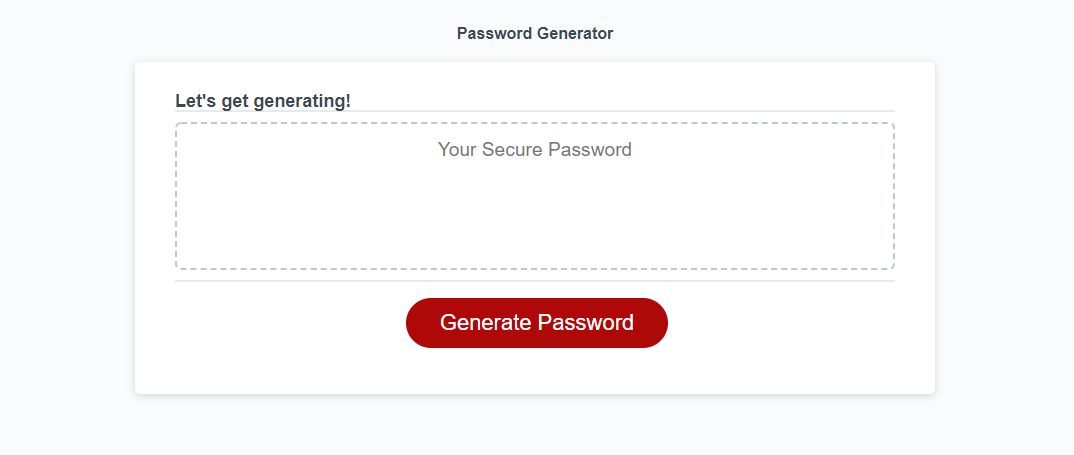
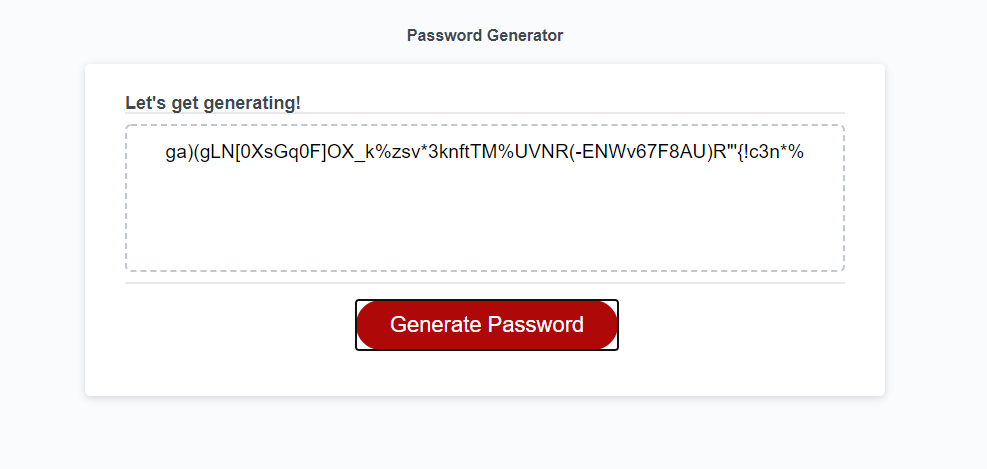
Update README.md and add screenshot of app

diff --git a/README.md b/README.md
@@ -1,11 +1,14 @@
 # Password Generator Application
 
+## Project Overview
 Password Generator 1.0 builout. Developer leveraged JavaScript to build out logic that fires button event and generates password through function call. generatePassword function leverages window.prompts and window.confirms to collect user input and parameters to determine length and content of password. Multiple if/else statements evalute user input for password length to ensure value is not null, then if value is number, and then if number is in specified 8-128 range. 
 
 After confirmation, generatePassword initializes characterLibrary object of character combinations and assigns all possible combinations to variables as single-value arrays. Variables are then passed into characterArray to house for later use as arguments to passwordIterator calls. 
 
 Once window.confirms determine parameters of password, multiple if/else statements are used to match user preferences to correct character combination, at which point passwordIterator is called with corresponding index value of characterArray. passwordIterator generates a random number based off length of characterArray nested array and then accesses the value of the nested array at that index. This value is converted to a string and concatenated onto finishedString variable. passwordIterator continues this operation until length of finishedString matches user's specified length for password. finishedString is then returned as value of generatePassword, which is then written out to the index.html file by writePassword function.
 
-Live application: https://captain63.github.io/homework3-js-password-generator/
+## Live Application
+https://captain63.github.io/homework3-js-password-generator/
 
-![Screenshot of application interface with generated 60-character password of full characters: lowercase, uppercase, specials, numbers.](./Assets/Images/completed-application.png)
+## Screenshot
+![Screenshot of application interface with generated 60-character password of full characters: lowercase, uppercase, specials, numbers.](./Assets/Images/completed-application.PNG)
